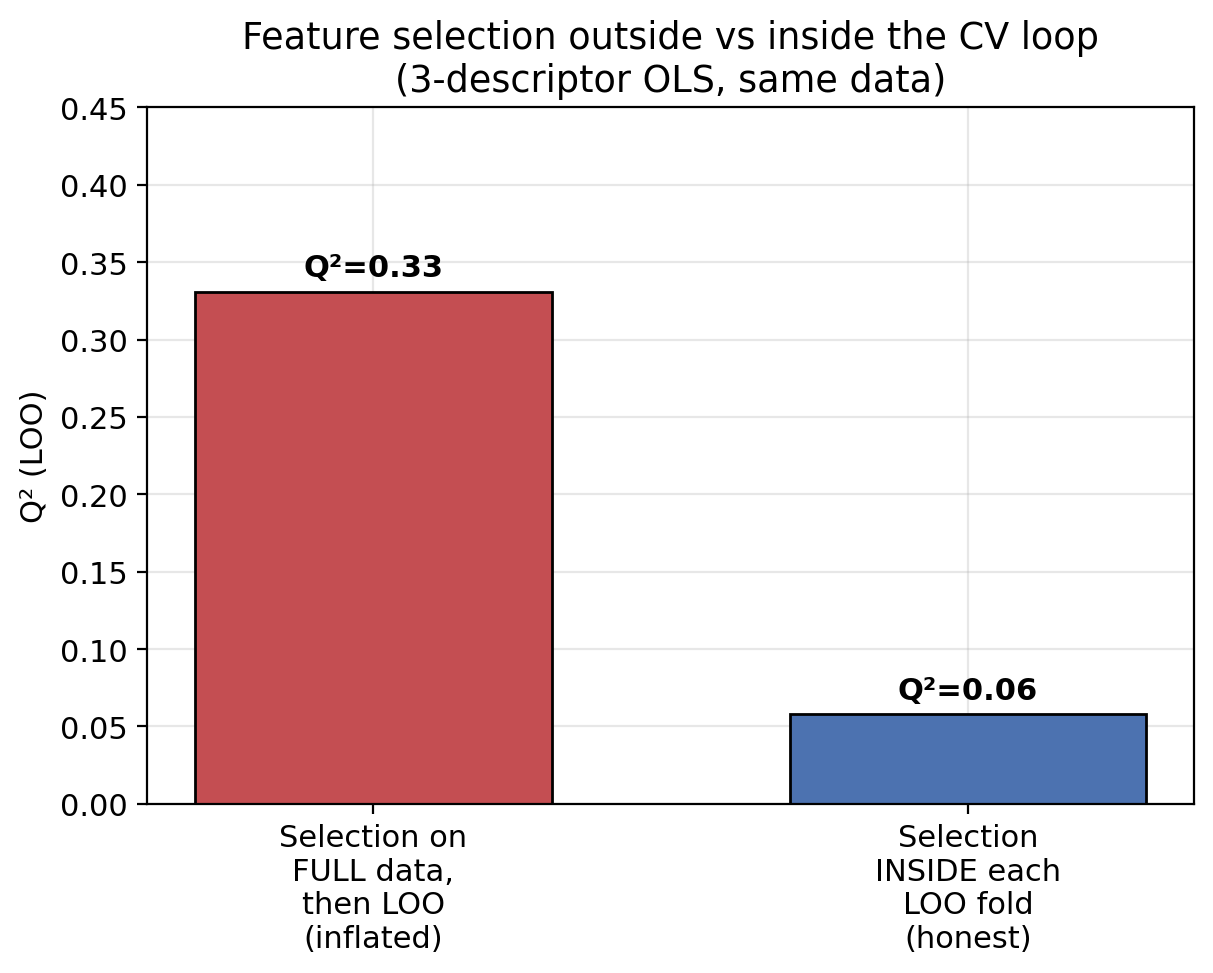
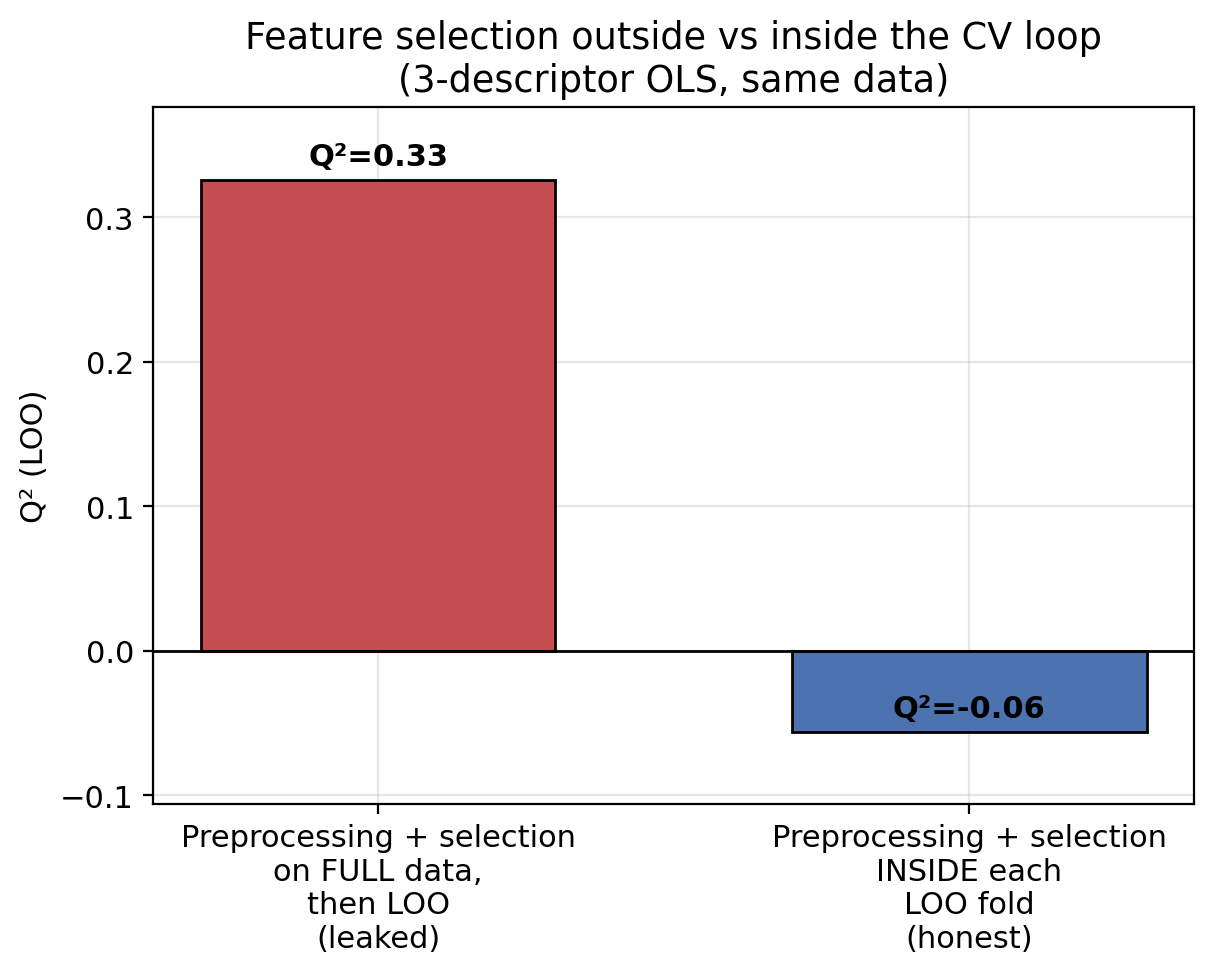
Add dataset and regenerated analysis outputs

diff --git a/qsar_benchmark.py b/qsar_benchmark.py
@@ -35,7 +35,7 @@ from sklearn.pipeline import Pipeline
 from sklearn.metrics import r2_score, mean_squared_error, mean_absolute_error
 
 SEED = 42
-DATA = 'Final SMILES list 33-Zhongda.csv'   # columns: No;Name;SMILES;lnk  (';'-separated)
+DATA = 'dataset.csv'   # columns: No;Name;SMILES;lnk  (';'-separated)
 
 # ---------------------------------------------------------------- 1. data
 df = pd.read_csv(DATA, sep=';')
@@ -66,7 +66,10 @@ y = df.loc[idx, 'lnk'].astype(float).values
 names_cmpd = df.loc[idx, 'Name'].tolist()
 X = X.replace([np.inf, -np.inf], np.nan)
 feat = list(X.columns); Xv = X.values
-print(f'N = {len(y)} compounds | {Xv.shape[1]} descriptors | p/n = {Xv.shape[1]/len(y):.1f}')
+X_full_for_count = SimpleImputer(strategy='median', keep_empty_features=True).fit_transform(Xv)
+p_full = int(VarianceThreshold(0.0).fit(X_full_for_count).get_support().sum())
+print(f'N = {len(y)} compounds | {Xv.shape[1]} raw RDKit descriptors | '
+      f'{p_full} non-constant across the full dataset (descriptive count; filtering is fitted per CV fold)')
 
 # ---------------------------------------------------------------- 2. models
 def PREP(scale=True):

diff --git a/feature_selection.py b/feature_selection.py
@@ -23,7 +23,7 @@ from sklearn.feature_selection import SelectKBest, f_regression
 from sklearn.pipeline import Pipeline
 from sklearn.metrics import r2_score, mean_squared_error, mean_absolute_error
 
-DATA='Final SMILES list 33-Zhongda.csv'
+DATA='dataset.csv'
 df=pd.read_csv(DATA,sep=';')
 required={'SMILES','lnk'}
 missing=required.difference(df.columns)
@@ -61,7 +61,7 @@ for _ in range(ITERS):
     Xz=StandardScaler().fit_transform(Xi)
     fsel=SelectKBest(f_regression,k=min(10,Xz.shape[1])).fit(Xz,ys)
     fc[support[fsel.get_support()]]+=1
-    lasso=LassoCV(cv=3,n_alphas=30,max_iter=5000,random_state=0).fit(Xz,ys)
+    lasso=LassoCV(cv=3,n_alphas=30,max_iter=50000,random_state=0).fit(Xz,ys)
     lc[support[np.abs(lasso.coef_)>1e-8]]+=1
 ff=np.divide(fc,eligible,out=np.zeros_like(fc),where=eligible>0)
 lf=np.divide(lc,eligible,out=np.zeros_like(lc),where=eligible>0)

diff --git a/README.md b/README.md
@@ -10,17 +10,25 @@ The accompanying manuscript and supporting-information documents are not part of
 
 - `qsar_benchmark.py` runs the QSAR model comparison with nested cross-validation and generates the model comparison, parity, and leakage figures and result tables.
 - `feature_selection.py` runs descriptor stability selection and the descriptor-count analysis.
-- `final_results.csv` and the PNG files are analysis outputs provided in the project folder.
+- `final_results.csv`, `loo_predictions.csv`, `best_params.json`, `baseline_results.json`, and `feature_selection_results.json` are generated result files.
+- `Fig_R1_ModelComparison.png` through `Fig_R6_FinalParity.png` are the figures regenerated by the scripts.
 
-The checked-in result table and figures were supplied with the original project folder. They predate the current fold-wise imputation and variance-filtering implementation; rerun the scripts with the authorized input dataset before treating generated results as a reproduction of the current code.
+The other top-level PNGs were supplied with the project folder and are not regenerated by these scripts. The generated result table and figures were regenerated from `dataset.csv` with the checked-in code and environment. The benchmark now gives Gradient Boosting LOO Q2 = 0.476 and repeated-CV R2 = 0.059 +/- 0.607; the manuscript draft reports Q2 = 0.52 and R2 = 0.08 +/- 0.56. Reconcile this difference in the manuscript before publication.
 
 ## Input data
 
-Both scripts expect `Final SMILES list 33-Zhongda.csv` in the working directory. It was not present in the supplied project folder, so it is not included here. The scripts require a semicolon-delimited CSV containing `SMILES`, `Name`, and `lnk` columns. Obtain the data file from the authors or its authorized source and place it beside the scripts before running either analysis.
+Both scripts read the included `dataset.csv` from the working directory. It is semicolon-delimited and contains `SMILES`, `Name`, and `lnk` columns.
 
 ## Software
 
-Python 3.10 or later is recommended. Install the listed packages with:
+The checked-in `environment.yml` records the environment used to regenerate the current results. Create it with Conda:
+
+```bash
+conda env create -f environment.yml
+conda activate sulfate-radical-degradation-qsar
+```
+
+Alternatively, install the packages with pip:
 
 ```bash
 python -m pip install -r requirements.txt
